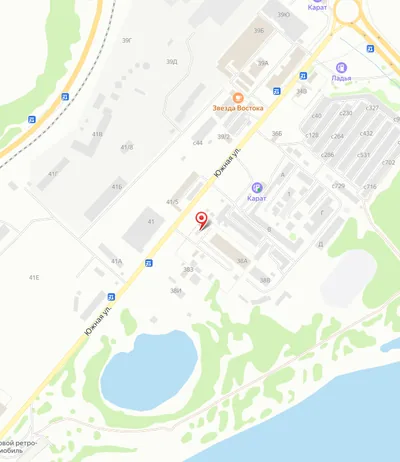
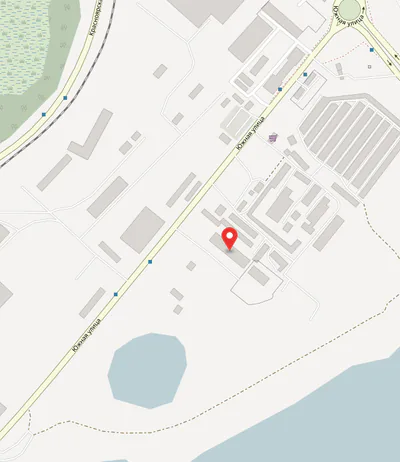
Draw the contacts map from OpenStreetMap data
The previous picture was cut from Yandex static map tiles, which their
terms do not allow us to store or alter. The new image is built from
OpenStreetMap tiles at the same scale, toned down to sit quietly next to
the contacts band, with the pin on the 38А building. The credit now
links to the OpenStreetMap copyright page. The map and route links still
open Yandex Maps.

diff --git a/index.html b/index.html
@@ -52,7 +52,7 @@
   <link rel="stylesheet" href="design-system/tokens.css?v=20261102" />
   <link rel="stylesheet" href="styles.css?v=20261102d" />
   <link rel="stylesheet" href="services-section/services.css?v=20261102c" />
-  <link rel="stylesheet" href="sections.css?v=20261102h" />
+  <link rel="stylesheet" href="sections.css?v=20261102i" />
   <link rel="stylesheet" href="modal.css?v=20261102d" />
   <!-- Yandex.Metrika counter 98889063 -->
   <script type="text/javascript">
@@ -869,7 +869,7 @@
                  alt="Карта: Красноярский край, г. Железногорск, ул. Южная 38А"
                  loading="lazy" decoding="async" />
           </a>
-          <span class="contacts__map-credit">© Яндекс Карты</span>
+          <a class="contacts__map-credit" href="https://www.openstreetmap.org/copyright" target="_blank" rel="noopener">© участники OpenStreetMap</a>
           <a class="contacts__route" href="https://yandex.ru/maps/?text=%D0%9A%D1%80%D0%B0%D1%81%D0%BD%D0%BE%D1%8F%D1%80%D1%81%D0%BA%D0%B8%D0%B9%20%D0%BA%D1%80%D0%B0%D0%B9%2C%20%D0%B3.%20%D0%96%D0%B5%D0%BB%D0%B5%D0%B7%D0%BD%D0%BE%D0%B3%D0%BE%D1%80%D1%81%D0%BA%2C%20%D1%83%D0%BB.%20%D0%AE%D0%B6%D0%BD%D0%B0%D1%8F%2038%D0%90" target="_blank" rel="noopener">
             Построить маршрут <span aria-hidden="true">↗</span>
           </a>

diff --git a/privacy.html b/privacy.html
@@ -21,7 +21,7 @@
   <link rel="stylesheet" href="design-system/fonts.css" />
   <link rel="stylesheet" href="design-system/tokens.css?v=20261102" />
   <link rel="stylesheet" href="styles.css?v=20261102d" />
-  <link rel="stylesheet" href="sections.css?v=20261102h" />
+  <link rel="stylesheet" href="sections.css?v=20261102i" />
   <style>
     /* ---- Light single-row header (mirrors the service-page header) ---- */
     .legal-header { background: var(--bg); color: var(--fg); border-bottom: var(--border-hair); }

diff --git a/sections.css b/sections.css
@@ -1967,12 +1967,18 @@
   position: absolute;
   right: 0;
   bottom: 0;
+  display: inline-flex;
+  align-items: center;
+  min-height: var(--space-5);
   padding: var(--space-1) var(--space-2);
   font-size: var(--fs-xs);
   line-height: 1.2;
   color: var(--fg);
   background: rgba(250, 250, 250, .74);
-  pointer-events: none;
+}
+
+.contacts__map-credit:hover {
+  text-decoration: underline;
 }
 
 .contacts__map-grid {
